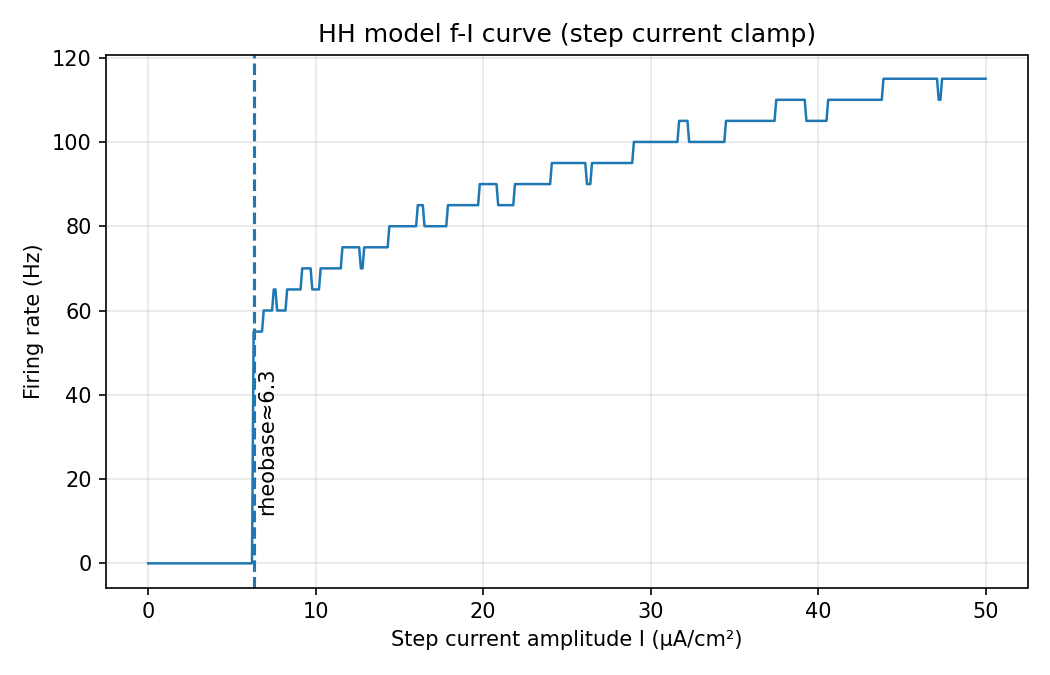
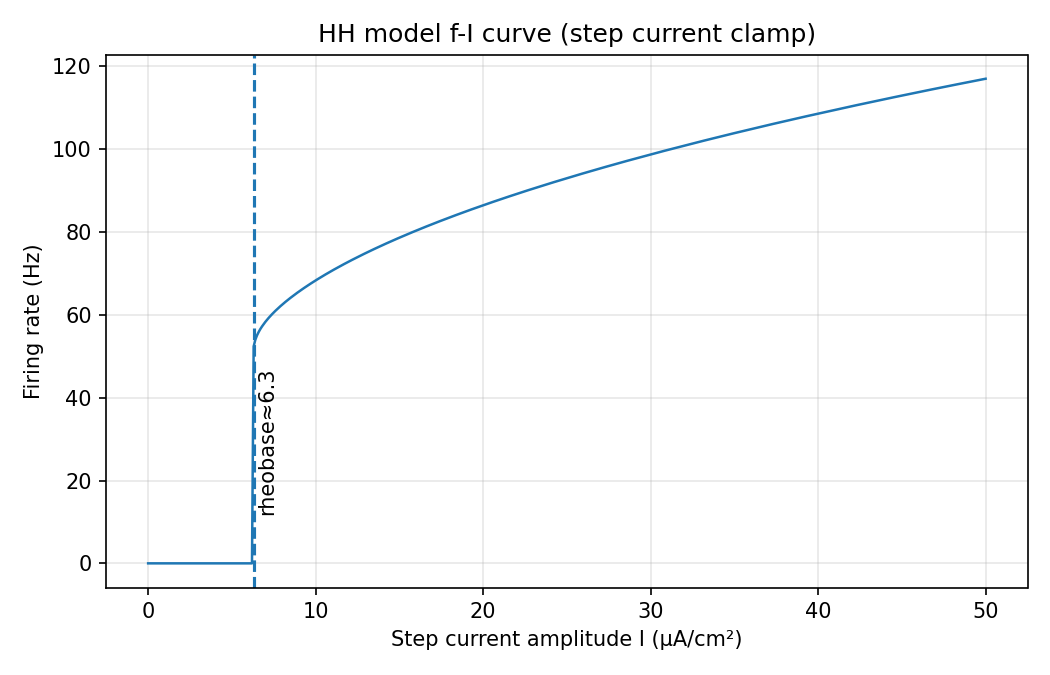
Add template system with preview cards
- Add 6 waveform templates (staircase, paired, burst, ramp-hold, sine-burst, noise)
- Template cards with canvas preview
- Click to activate template, OFF button to deactivate
- Disable inject buttons when template is active
- Improve f-I curve calculation using ISI method

diff --git a/index.html b/index.html
@@ -110,6 +110,29 @@
     .inject-btn:hover { background: #333; color: #fff; border-color: #444; }
     .inject-btn:active { background: #e91e63; color: #fff; border-color: #e91e63; }
     .inject-btn.active { background: #e91e63; color: #fff; border-color: #e91e63; }
+    .inject-btn:disabled { opacity: 0.3; cursor: not-allowed; pointer-events: none; }
+
+    .templates-section { margin-top: 12px; padding-top: 12px; border-top: 1px solid #2a2a2a; }
+    .templates-header { display: flex; justify-content: space-between; align-items: center; margin-bottom: 8px; }
+    .templates-header h4 { font-size: 10px; color: #666; text-transform: uppercase; letter-spacing: 1px; margin: 0; }
+    .clear-template-btn {
+      padding: 3px 8px; font-size: 9px; border: 1px solid #333; border-radius: 3px;
+      background: #252525; color: #666; cursor: pointer; font-family: inherit;
+    }
+    .clear-template-btn:hover { background: #333; color: #aaa; }
+    .clear-template-btn.active { background: #e91e63; color: #fff; border-color: #e91e63; }
+
+    .template-grid { display: grid; grid-template-columns: 1fr 1fr; gap: 6px; }
+    .template-card {
+      display: flex; flex-direction: column; align-items: center; padding: 6px;
+      background: #252525; border: 1px solid #333; border-radius: 3px; cursor: pointer;
+      transition: all 0.15s;
+    }
+    .template-card:hover { background: #333; border-color: #444; }
+    .template-card.active { background: #e91e63; border-color: #e91e63; }
+    .template-card.active span { color: #fff; }
+    .template-preview { display: block; margin-bottom: 4px; border-radius: 2px; }
+    .template-card span { font-size: 9px; color: #888; text-transform: uppercase; letter-spacing: 0.5px; }
 
     .playback-section {
       background: #1e1e1e;
@@ -183,11 +206,43 @@
           <input type="range" id="mag-slider" min="1" max="100" step="1" value="10">
           <span id="mag-value">10</span>
         </div>
-        <div class="inject-buttons">
+        <div class="inject-buttons" id="inject-buttons">
           <button type="button" class="inject-btn" data-wave="step">Step</button>
           <button type="button" class="inject-btn" data-wave="pulse">Pulse</button>
           <button type="button" class="inject-btn" data-wave="sine">Sine</button>
           <button type="button" class="inject-btn" data-wave="ramp">Ramp</button>
+        </div>
+        <div class="templates-section">
+          <div class="templates-header">
+            <h4>TEMPLATES</h4>
+            <button type="button" class="clear-template-btn" id="clear-template">OFF</button>
+          </div>
+          <div class="template-grid">
+            <div class="template-card" data-template="staircase">
+              <canvas class="template-preview" width="60" height="30"></canvas>
+              <span>Staircase</span>
+            </div>
+            <div class="template-card" data-template="paired">
+              <canvas class="template-preview" width="60" height="30"></canvas>
+              <span>Paired</span>
+            </div>
+            <div class="template-card" data-template="burst">
+              <canvas class="template-preview" width="60" height="30"></canvas>
+              <span>Burst</span>
+            </div>
+            <div class="template-card" data-template="ramp-hold">
+              <canvas class="template-preview" width="60" height="30"></canvas>
+              <span>Ramp+Hold</span>
+            </div>
+            <div class="template-card" data-template="sine-burst">
+              <canvas class="template-preview" width="60" height="30"></canvas>
+              <span>Sine Burst</span>
+            </div>
+            <div class="template-card" data-template="noise">
+              <canvas class="template-preview" width="60" height="30"></canvas>
+              <span>Noise</span>
+            </div>
+          </div>
         </div>
       </div>
 
@@ -272,18 +327,89 @@ const HH = {
   }
 };
 
+// ========== Waveform Templates ==========
+const TEMPLATES = {
+  'staircase': {
+    period: 120,
+    fn: (t, mag) => {
+      const phase = t % 120;
+      if (phase < 30) return mag * 0.3;
+      if (phase < 60) return mag * 0.6;
+      if (phase < 90) return mag;
+      return 0;
+    }
+  },
+  'paired': {
+    period: 80,
+    fn: (t, mag) => {
+      const phase = t % 80;
+      if (phase < 2) return mag;
+      if (phase >= 15 && phase < 17) return mag;
+      return 0;
+    }
+  },
+  'burst': {
+    period: 100,
+    fn: (t, mag) => {
+      const phase = t % 100;
+      if (phase < 40) {
+        const subphase = phase % 8;
+        return subphase < 2 ? mag : 0;
+      }
+      return 0;
+    }
+  },
+  'ramp-hold': {
+    period: 100,
+    fn: (t, mag) => {
+      const phase = t % 100;
+      if (phase < 20) return (phase / 20) * mag;
+      if (phase < 60) return mag;
+      if (phase < 80) return mag * (1 - (phase - 60) / 20);
+      return 0;
+    }
+  },
+  'sine-burst': {
+    period: 120,
+    fn: (t, mag) => {
+      const phase = t % 120;
+      if (phase < 80) return mag * 0.5 * (1 + Math.sin(2 * Math.PI * phase / 20));
+      return 0;
+    }
+  },
+  'noise': {
+    period: 1,
+    fn: (t, mag) => mag * 0.5 * (1 + (Math.sin(t * 0.7) + Math.sin(t * 1.3) + Math.sin(t * 2.1)) / 3)
+  }
+};
+
 // ========== Waveform Injector ==========
 class WaveformInjector {
   constructor() {
     this.queue = [];
     this.stepActive = false;
     this.stepMag = 0;
+    this.activeTemplate = null;
+    this.templateMag = 0;
   }
 
   toggleStep(mag) {
     this.stepActive = !this.stepActive;
     this.stepMag = this.stepActive ? mag : 0;
     return this.stepActive;
+  }
+
+  setTemplate(name, mag) {
+    this.activeTemplate = name;
+    this.templateMag = mag;
+    // Clear step when template is active
+    this.stepActive = false;
+    this.stepMag = 0;
+  }
+
+  clearTemplate() {
+    this.activeTemplate = null;
+    this.templateMag = 0;
   }
 
   inject(type, mag) {
@@ -302,7 +428,14 @@ class WaveformInjector {
   }
 
   getValue(t) {
-    let sum = this.stepMag; // Add step if active
+    let sum = this.stepMag;
+
+    // Add template value if active
+    if (this.activeTemplate && TEMPLATES[this.activeTemplate]) {
+      sum += TEMPLATES[this.activeTemplate].fn(t, this.templateMag);
+    }
+
+    // Add queued waveforms
     this.queue = this.queue.filter(w => {
       const elapsed = t - w.t0;
       if (elapsed < 0) return true;
@@ -452,6 +585,7 @@ speedSlider.addEventListener('input', () => {
   speedValue.textContent = stepsPerFrame + ' steps/f';
 });
 
+const injectButtons = document.getElementById('inject-buttons');
 document.querySelectorAll('.inject-btn').forEach(btn => {
   btn.addEventListener('click', () => {
     const wave = btn.dataset.wave;
@@ -462,6 +596,78 @@ document.querySelectorAll('.inject-btn').forEach(btn => {
       injector.inject(wave, injectMag);
     }
   });
+});
+
+// ========== Template System ==========
+const clearTemplateBtn = document.getElementById('clear-template');
+const templateCards = document.querySelectorAll('.template-card');
+
+function setInjectButtonsDisabled(disabled) {
+  document.querySelectorAll('.inject-btn').forEach(btn => {
+    btn.disabled = disabled;
+    if (disabled) btn.classList.remove('active');
+  });
+}
+
+function drawTemplatePreview(canvas, templateName) {
+  const ctx = canvas.getContext('2d');
+  const w = canvas.width, h = canvas.height;
+  const template = TEMPLATES[templateName];
+  if (!template) return;
+
+  ctx.fillStyle = '#1e1e1e';
+  ctx.fillRect(0, 0, w, h);
+
+  ctx.strokeStyle = '#e91e63';
+  ctx.lineWidth = 1.5;
+  ctx.beginPath();
+
+  const period = template.period;
+  const samples = 60;
+  for (let i = 0; i <= samples; i++) {
+    const t = (i / samples) * period * 1.5;
+    const val = template.fn(t, 1);
+    const x = (i / samples) * w;
+    const y = h - 4 - val * (h - 8);
+    if (i === 0) ctx.moveTo(x, y);
+    else ctx.lineTo(x, y);
+  }
+  ctx.stroke();
+}
+
+// Draw all template previews
+templateCards.forEach(card => {
+  const canvas = card.querySelector('.template-preview');
+  const templateName = card.dataset.template;
+  drawTemplatePreview(canvas, templateName);
+});
+
+// Template card click handler
+templateCards.forEach(card => {
+  card.addEventListener('click', () => {
+    const templateName = card.dataset.template;
+
+    // Clear previous selection
+    templateCards.forEach(c => c.classList.remove('active'));
+    card.classList.add('active');
+
+    // Activate template
+    injector.setTemplate(templateName, injectMag);
+
+    // Disable inject buttons
+    setInjectButtonsDisabled(true);
+
+    // Show OFF button as active
+    clearTemplateBtn.classList.add('active');
+  });
+});
+
+// Clear template button
+clearTemplateBtn.addEventListener('click', () => {
+  templateCards.forEach(c => c.classList.remove('active'));
+  injector.clearTemplate();
+  setInjectButtonsDisabled(false);
+  clearTemplateBtn.classList.remove('active');
 });
 
 // Resize handler

diff --git a/gain_function.py b/gain_function.py
@@ -81,16 +81,35 @@ def simulate_step(amp, T=400.0, dt=0.025, V0=-65.0, t_on=50.0):
     return ts, V
 
 def firing_rate_from_trace(ts, V, t_start=200.0, thresh=0.0):
-    # Count upward crossings of threshold after t_start (ms)
+    """
+    Calculate firing rate using ISI (inter-spike interval) method.
+    Returns mean frequency from steady-state ISIs for continuous values.
+    """
     mask = ts >= t_start
     t = ts[mask]
     v = V[mask]
 
-    crossings = np.where((v[:-1] < thresh) & (v[1:] >= thresh))[0]
-    n_spikes = len(crossings)
+    # Find spike times (upward threshold crossings)
+    crossing_idx = np.where((v[:-1] < thresh) & (v[1:] >= thresh))[0]
+    n_spikes = len(crossing_idx)
 
-    duration_s = (t[-1] - t[0]) / 1000.0 if len(t) > 1 else 0.0
-    rate_hz = (n_spikes / duration_s) if duration_s > 0 else 0.0
+    if n_spikes < 2:
+        # Not enough spikes for ISI calculation
+        # Fall back to counting method
+        duration_s = (t[-1] - t[0]) / 1000.0 if len(t) > 1 else 0.0
+        rate_hz = (n_spikes / duration_s) if duration_s > 0 else 0.0
+        return rate_hz, n_spikes
+
+    # Get spike times
+    spike_times = t[crossing_idx]
+
+    # Calculate ISIs (inter-spike intervals) in ms
+    isis = np.diff(spike_times)
+
+    # Use mean ISI for frequency (more stable than last ISI)
+    mean_isi_ms = np.mean(isis)
+    rate_hz = 1000.0 / mean_isi_ms  # Convert to Hz
+
     return rate_hz, n_spikes
 
 # ---------- Build f-I curve ----------
@@ -99,8 +118,8 @@ rates = []
 spike_counts = []
 
 for a in tqdm(amps, desc="Scanning I"):
-    ts, V = simulate_step(a, T=400.0, dt=0.025, V0=-65.0, t_on=50.0)
-    r, nsp = firing_rate_from_trace(ts, V, t_start=200.0, thresh=0.0)
+    ts, V = simulate_step(a, T=1000.0, dt=0.01, V0=-65.0, t_on=50.0)
+    r, nsp = firing_rate_from_trace(ts, V, t_start=300.0, thresh=0.0)
     rates.append(r); spike_counts.append(nsp)
 
 rates = np.array(rates)
